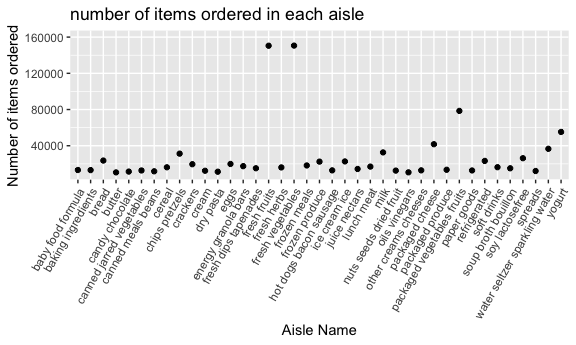
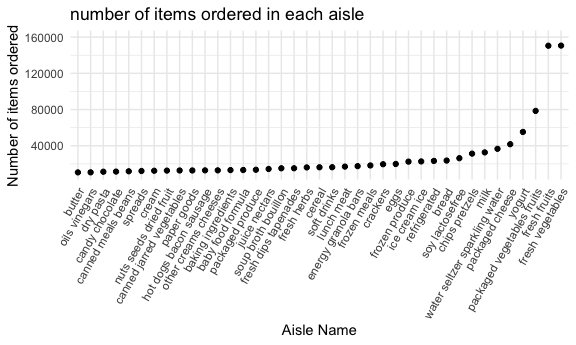
Problem 1: Fixing problem 1 base on published answer.

diff --git a/p8105_hw3_tw2918.md b/p8105_hw3_tw2918.md
@@ -26,6 +26,16 @@ knitr::opts_chunk$set(
   fig.asp = .6,
   out.width = "90%"
 )
+
+theme_set(theme_minimal() + theme(legend.position = "bottom"))
+
+options(
+  ggplot2.continuous.colour = "viridis",
+  ggplot2.continuous.fill = "viridis"
+)
+
+scale_colour_discrete = scale_colour_viridis_d
+scale_fill_discrete = scale_fill_viridis_d
 ```
 
 # Problem 1
@@ -98,6 +108,7 @@ mode(instacart$aisle)
 instacart |>
   count(aisle)|>
   filter(n > 10000) |>
+  mutate(aisle = fct_reorder(aisle, n)) |> 
   ggplot(aes(x = aisle, y = n )) +
   geom_point() +
   labs(
@@ -153,7 +164,7 @@ instacart |>
     names_from = dow,
     values_from = mean_hour
   ) |>
-  knitr::kable()
+  knitr::kable(digits = 2)
 ```
 
     ## Warning: There was 1 warning in `filter()`.
@@ -164,10 +175,10 @@ instacart |>
     ## `summarise()` has grouped output by 'product_name'. You can override using the
     ## `.groups` argument.
 
-| product_name     |    day_0 |    day_1 |    day_2 |   day_3 |    day_4 |    day_5 |    day_6 |
-|:-----------------|---------:|---------:|---------:|--------:|---------:|---------:|---------:|
-| Coffee Ice Cream | 13.22222 | 15.00000 | 15.33333 | 15.4000 | 15.16667 | 10.33333 | 12.35294 |
-| Pink Lady Apples | 12.25000 | 11.67857 | 12.00000 | 13.9375 | 11.90909 | 13.86957 | 11.55556 |
+| product_name     | day_0 | day_1 | day_2 | day_3 | day_4 | day_5 | day_6 |
+|:-----------------|------:|------:|------:|------:|------:|------:|------:|
+| Coffee Ice Cream | 13.22 | 15.00 | 15.33 | 15.40 | 15.17 | 10.33 | 12.35 |
+| Pink Lady Apples | 12.25 | 11.68 | 12.00 | 13.94 | 11.91 | 13.87 | 11.56 |
 
 # Problem 2
 
